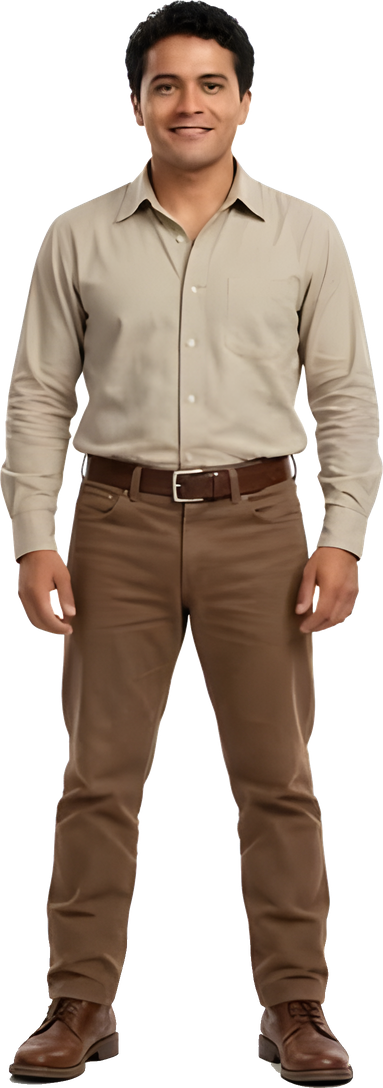
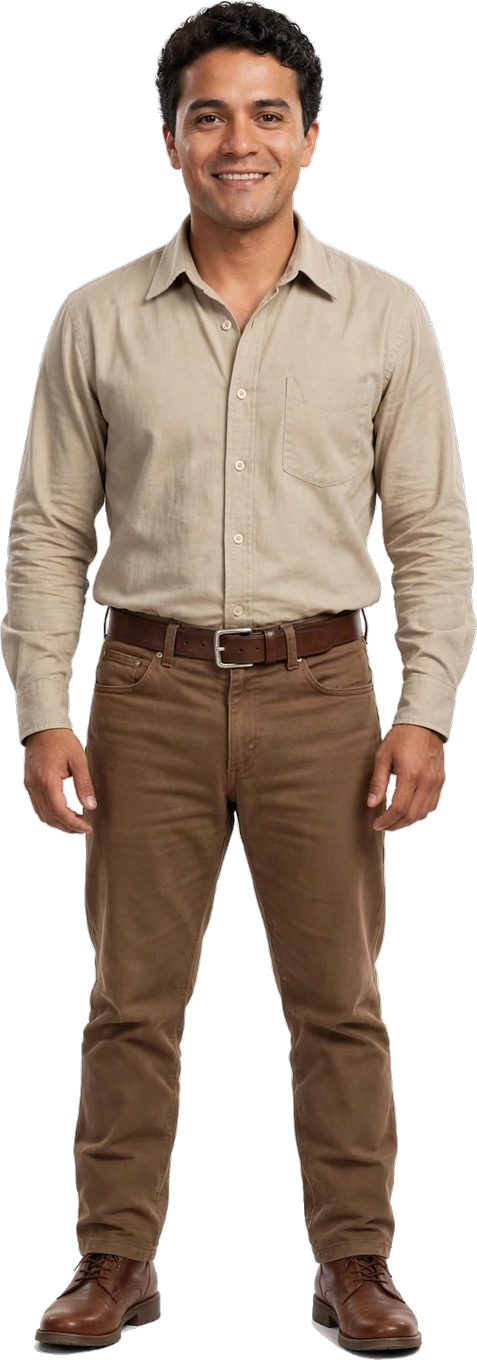
Кастанеда в высоком качестве: анфас и профиль из новых фото
- castaneda_body.png — анфас (1360 px в высоту вместо 1089 после апскейла): титул, выбор героя, финал
- castaneda_side.png — профиль: в бою герой смотрит на летунов, в заставке входит в кадр
- Исходники перенесены в assets/heroes/source/, старый спрайт ходьбы удалён,
  cut_sprites.py больше не перезаписывает спрайты Кастанеды

Claude-Session: https://claude.ai/code/session_018ndutf4o4iMQeUTwB7UtrW

diff --git a/js/data.js b/js/data.js
@@ -7,6 +7,7 @@ const HEROES = {
     id: 'castaneda', name: 'Карлос Кастанеда', title: 'Ученик', playable: true,
     hp: 72, gold: 99,
     body: 'assets/heroes/castaneda_body.png', portrait: 'assets/heroes/castaneda_portrait.jpg',
+    side: 'assets/heroes/castaneda_side.png',   // вид сбоку: в бою герой смотрит на летунов
     desc: 'Антрополог, ставший учеником дона Хуана. Копит Осознание, а затем одним рывком сдвигает точку сборки. Летуны охотятся за его осознанием — не давайте им насытиться.',
     deck: ['strike', 'strike', 'strike', 'strike', 'intent', 'defend', 'defend', 'defend', 'defend', 'notes', 'flash'],
     relic: 'notebook',

diff --git a/js/intro.js b/js/intro.js
@@ -190,7 +190,7 @@ function playIntro() {
         `<i style="--x:${x}px;--y:${y}px"></i>`).join('')}</div>
       <div class="i-dust">${dust}</div>
       <div class="i-hero">
-        <div class="i-walker"><img src="assets/heroes/castaneda_walk.png" alt=""></div>
+        <div class="i-walker"><img src="${HEROES.castaneda.side}" alt=""></div>
         <div class="i-aura"></div>
         <img class="i-stand" src="${HEROES.castaneda.body}" alt="">
       </div>

diff --git a/js/game.js b/js/game.js
@@ -1456,7 +1456,7 @@ function renderCombatShell() {
     ${motes(14, 'embers')}<div class="fog"></div>
     <div class="field">
       <div class="unit hero" data-unit="hero">
-        <div class="sprite"><img src="${h.body}" alt=""></div>
+        <div class="sprite"><img src="${h.side || h.body}" alt=""></div>
         <div class="u-bar"></div><div class="statuses"></div>
       </div>
       <div class="enemies" id="enemies"></div>

diff --git a/tools/cut_sprites.py b/tools/cut_sprites.py
@@ -16,11 +16,12 @@ ROOT = os.path.join(os.path.dirname(os.path.abspath(__file__)), '..')
 OUT = os.path.join(ROOT, 'assets', 'heroes')
 
 # имя: (лист, кроп фигуры в полный рост, кроп портрета)
+# Кастанеда больше не вырезается из листа: его спрайты (вид спереди и сбоку) сделаны из
+# фото в высоком качестве — assets/heroes/source/carlos_front.png и carlos_side.png.
+# Портрет castaneda_portrait.jpg остаётся из листа (там крупный план лица).
 JOBS = {
-    'castaneda': ('young_carlos_castaneda_model_sheet.jpg', (760, 665, 1160, 1225), (80, 110, 610, 608)),
     'donjuan': ('don_juan_model_sheet_1-edited.jpg', (800, 640, 1120, 1225), (30, 20, 630, 580)),
     'genaro': ('don_genaro_model_sheet.jpg', (820, 655, 1100, 1215), (80, 85, 650, 598)),
-    'castaneda_walk': ('young_carlos_castaneda_model_sheet.jpg', (1420, 665, 1740, 1228), None),  # для заставки
 }
 
 _net = None
@@ -137,4 +138,4 @@ def main(only=None):
 
 if __name__ == '__main__':
     import sys
-    main(sys.argv[1:] or None)   # можно указать имена: python3 tools/cut_sprites.py castaneda_walk
+    main(sys.argv[1:] or None)   # можно указать имена: python3 tools/cut_sprites.py genaro

diff --git a/README.md b/README.md
@@ -131,5 +131,6 @@
 - `js/game.js` — движок: карта, бой, награды, магазин, отдых, сохранение
 - `css/style.css`, `css/intro.css` — оформление
 - `assets/audio/` — интро и музыкальная тема
-- `assets/heroes/` — спрайты и портреты героев, вырезанные из листов персонажей скриптом `tools/cut_sprites.py`
+- `assets/heroes/` — спрайты и портреты героев. Кастанеда — из фото в высоком качестве (`source/carlos_front.png`, `carlos_side.png`):
+  анфас на титуле и при выборе героя, профиль в бою и в заставке. Дон Хуан и Хенаро вырезаны из листов персонажей скриптом `tools/cut_sprites.py`
   (апскейл Real-ESRGAN ×4 через `ncnn` + `realesrgan-ncnn-py`, удаление фона вместе с просветами между руками и телом)
